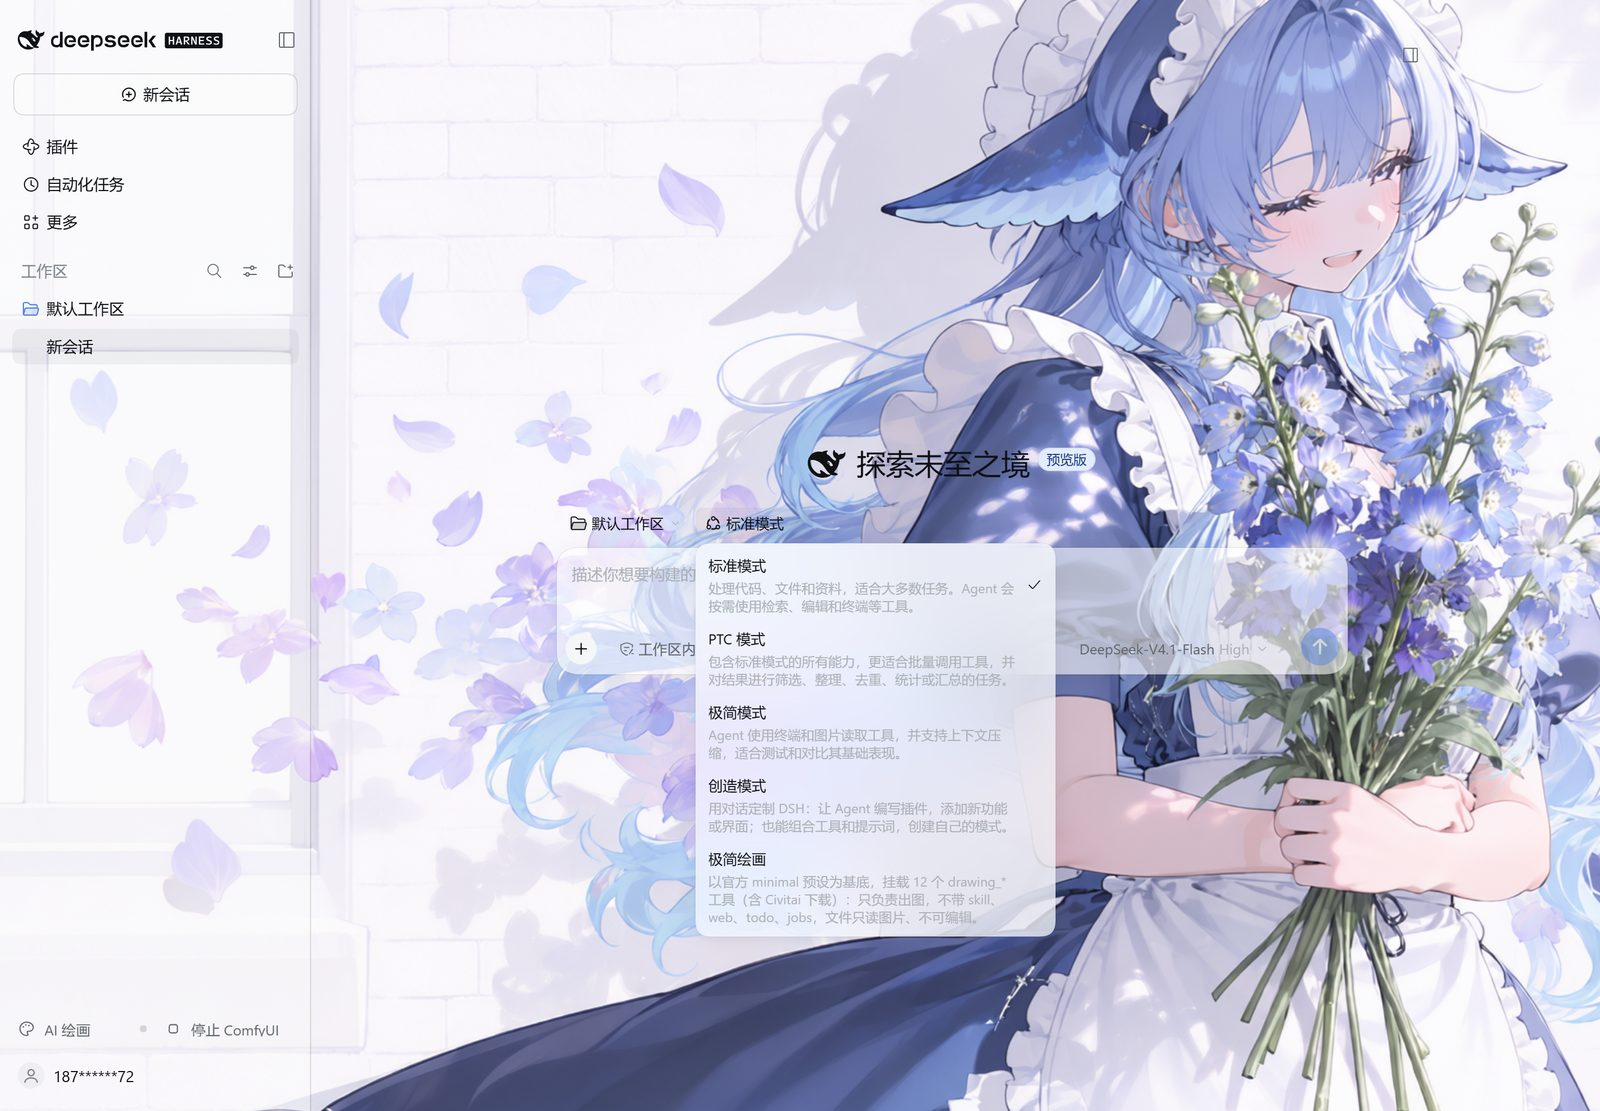
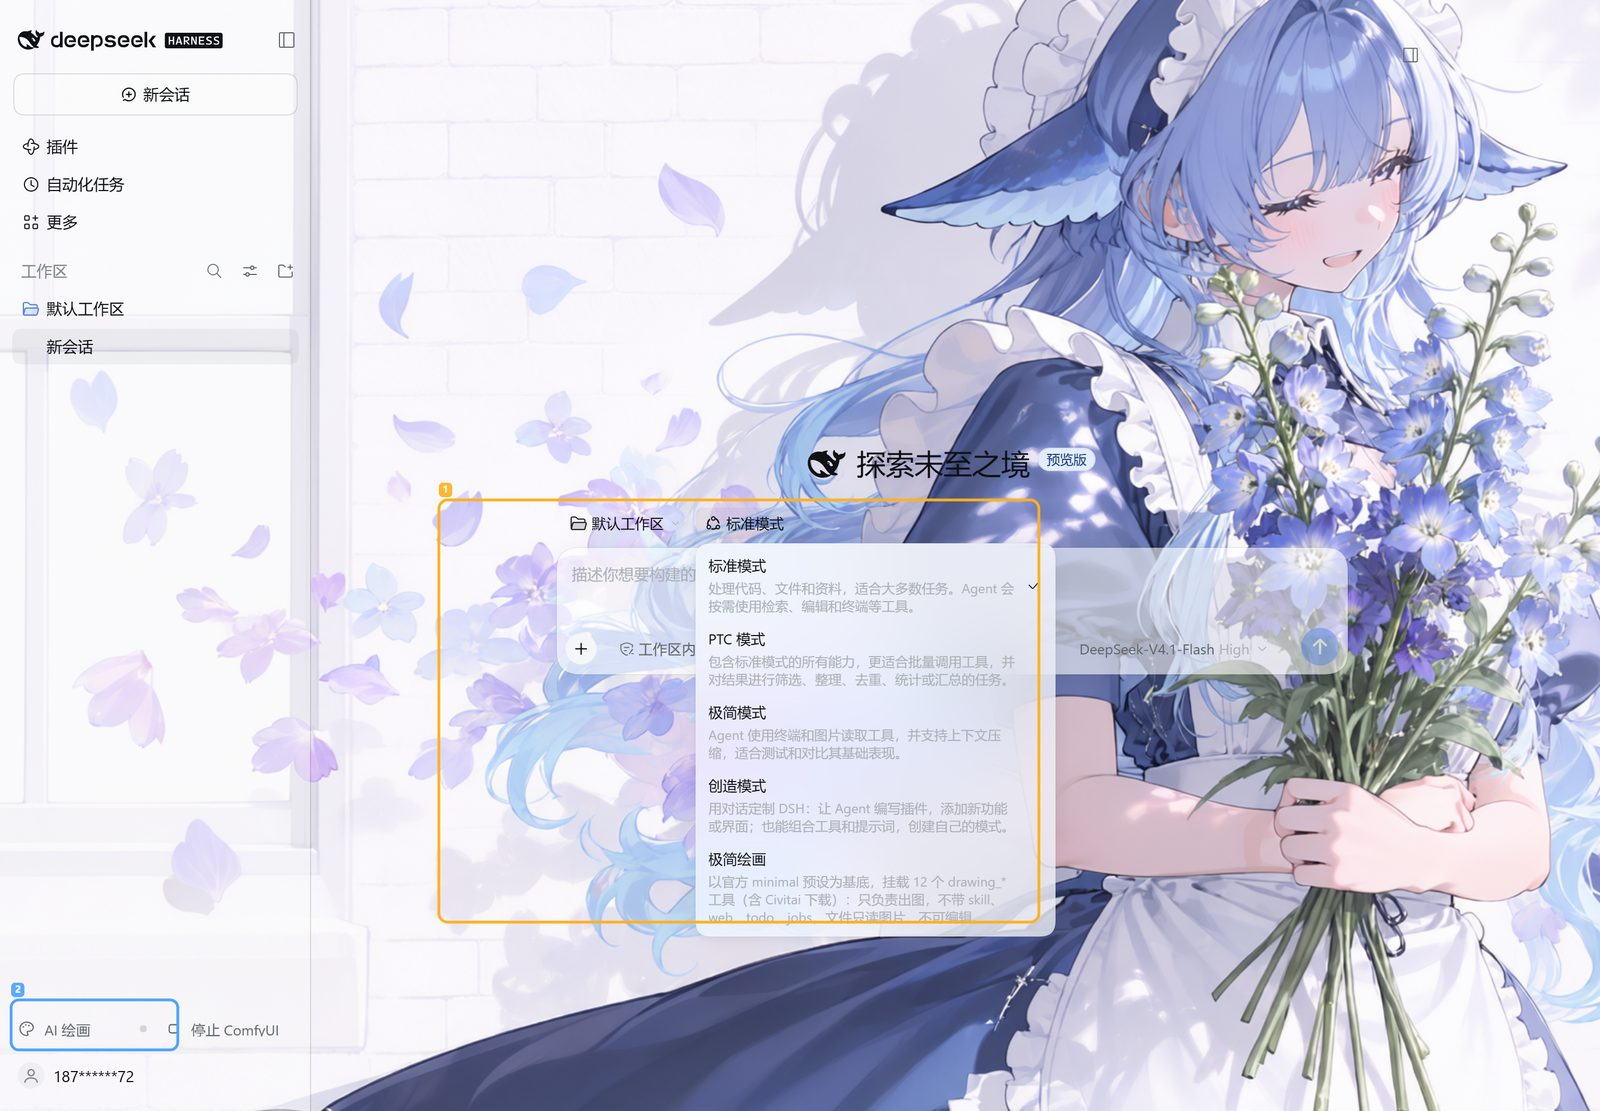
docs: hero image, why-this-plugin comparison, every canvas case and annotated screenshots

Changed region(s): [[0.2812, 0.7957, 0.6562, 0.8569], [0.25, 0.4284, 0.6562, 0.459], [0.0, 0.8875, 0.125, 0.9487]]

diff --git a/README.md b/README.md
@@ -4,9 +4,23 @@ English | [简体中文](README.zh-CN.md)
 
 > Local AI image generation for DeepSeek Harness through a ComfyUI server.
 
-DeepSeek Harness (DSH) has no built-in image generation. This bundle adds twelve `drawing_*` tools that drive a local ComfyUI instance over its HTTP API, and a sidebar entry that opens the ComfyUI canvas in DSH's right sidebar. The tools can report server status, list the models that are actually installed, read a per-family prompt guide, generate batch or img2img images, inspect the queue and history, run saved workflows, and recover the recipe from a ComfyUI PNG. It is displayed as **Drawing tools** in English and **绘画工具** in Chinese.
+DeepSeek Harness (DSH) has no built-in image generation. This bundle adds twelve `drawing_*` tools that drive a local ComfyUI instance over its HTTP API, and a sidebar entry that opens the ComfyUI canvas in the right sidebar (Desktop) or in a new browser tab (web). The tools can report server status, list the models that are actually installed, read a per-family prompt guide, generate batch or img2img images, inspect the queue and history, run saved workflows, and recover the recipe from a ComfyUI PNG. It is displayed as **Drawing tools** in English and **绘画工具** in Chinese.
 
 Installing this single bundle gives you all three pieces: the twelve tools, the sidebar entry, and the **Minimal drawing (极简绘画)** agent preset (preset id `drawing-minimal`), which shows up in the new-session preset list. You do not need a second package for the preset.
+
+![dsh-drawing-tools](docs/preview/hero.jpg)
+
+## Why this plugin
+
+Most ComfyUI bridges give the model one `generate` call and leave everything else to you. This bundle is built for a machine it has never seen, and for a picture you actually want to finish.
+
+| | dsh-drawing-tools | a typical ComfyUI bridge |
+| --- | --- | --- |
+| Model knowledge | five family guides with real sizes, steps and CFG, captured trigger words and per-family defaults | the model guesses |
+| Missing files | reads the PNG recipe, searches Civitai / Hugging Face (with mirrors), installs normalized names, verifies the hash | generation just fails |
+| Reproducibility | every run's UI workflow is written into ComfyUI and embedded in the PNG | a one-off graph |
+| Portability | no preset paths; adopts the paths ComfyUI reports; detects the GPU and the launch command | hardcoded paths |
+| Recovery | reads an old ComfyUI PNG and rebuilds the graph | start from scratch |
 
 ## Quick start / 快速开始
 
@@ -34,13 +48,33 @@ Installing this single bundle gives you all three pieces: the twelve tools, the 
 3. **重启 DSH**（bundle 在启动时加载），新建会话选 **极简绘画 / Minimal drawing**。
 4. 直接描述画面。先跑 `drawing_status`；ComfyUI 装了但没配自动启动时，用 `drawing_setup({ action: 'detect' })` / `apply` 修好。
 
-![The 极简绘画 preset in the new-session menu](docs/preview/preset.jpg)
-
-![A 512x512 image generated by the agent](docs/preview/example.jpg)
-
 The built-in family guides are Chinese because the agent reads them; an English index of what each one covers is in [guides/README.en.md](guides/README.en.md).
 
 **For agents.** Read [AGENTS.md](AGENTS.md) for the machine-actionable contract: tool list, config keys, credential names, path rules and verification steps.
+
+## Opening the canvas — every case
+
+The sidebar entry is the same in every deployment, but how the canvas appears depends on where DSH runs:
+
+| Situation | What happens |
+| --- | --- |
+| Desktop app | opens a native browser tab in DSH's right sidebar |
+| DSH opened in a plain browser | opens the ComfyUI origin in a new browser tab (there is no right sidebar to fill) |
+| Right sidebar exists but no session surface is mounted | retries the sidebar, then falls back to a new tab instead of failing |
+| Browser blocks the new tab | a toast explains that popups were blocked; allow them and retry |
+| ComfyUI is not running | the entry starts it (from `launch` config or detection), then opens the canvas |
+| ComfyUI is not on 8188, or is remote | set `config.origin` (or `COMFY_ORIGIN`); the canvas and every tool follow it |
+| ComfyUI is not installed | `drawing_status` explains what to install and which build fits the GPU |
+
+## Screenshots
+
+![The preset menu and the sidebar entry](docs/preview/preset.jpg)
+
+**1** The **极简绘画 / Minimal drawing** preset: twelve `drawing_` tools, no editor or web tools, and a persona that only draws on an explicit request. **2** The **AI 绘画** entry above Settings: it shows the ComfyUI state, can stop the server, and opens the canvas; a toast reports the mode.
+
+![The canvas inside the desktop right sidebar](docs/preview/canvas.jpg)
+
+**3** The canvas is a real ComfyUI page inside DSH. The workflow is saved as `dsh-drawing/<date>_<family>` and every node is the one the agent submitted, so the same picture can be reopened and re-run.
 
 ## Features
 

diff --git a/README.zh-CN.md b/README.zh-CN.md
@@ -8,6 +8,20 @@ DeepSeek Harness（DSH）本身没有出图能力。这个 bundle 提供 12 个 
 
 只装这一个 bundle 就能同时得到三样东西：12 个工具、侧边栏入口，以及 **极简绘画** agent 预设（预设 id `drawing-minimal`，会出现在新建会话的预设列表里）。预设不需要再单独装第二个包。
 
+![dsh-drawing-tools](docs/preview/hero.jpg)
+
+## 为什么用它
+
+大多数 ComfyUI 桥接只给模型一个 `generate` 调用，剩下的都留给你。这个 bundle 面向一台它没见过的机器，也面向一张真的想画完的图。
+
+| | dsh-drawing-tools | 普通 ComfyUI 桥接 |
+| --- | --- | --- |
+| 懂模型 | 五个模型族的真实尺寸/步数/CFG、采集到的触发词、各族默认参数 | 全靠模型猜 |
+| 缺文件 | 读 PNG 配方，去 Civitai / Hugging Face（含镜像）搜索，规范化安装，校验哈希 | 直接失败 |
+| 可复现 | 每次运行的 UI 工作流写进 ComfyUI 并嵌进 PNG | 一次性图 |
+| 可迁移 | 不预设路径；采用 ComfyUI 自报路径；探测显卡与启动命令 | 写死路径 |
+| 可救回 | 读旧 ComfyUI PNG，重建整张图 | 从头再来 |
+
 ## 快速开始 / Quick start
 
 **这是什么。** 一个把本机 ComfyUI 变成绘画 agent 的 DeepSeek Harness 插件包。装一次同时得到 12 个 `drawing_` 工具、一个打开 ComfyUI 画布的侧边栏入口，以及 **极简绘画** agent 预设。它只通过 HTTP 访问你自己的 ComfyUI，不含任何模型、不上传任何数据。
@@ -24,13 +38,33 @@ DeepSeek Harness（DSH）本身没有出图能力。这个 bundle 提供 12 个 
 3. **重启 DSH**，新建会话选 **极简绘画**。
 4. 先 `drawing_status`；ComfyUI 未配置自动启动时用 `drawing_setup({ action: 'detect' })` / `apply`。
 
-![The 极简绘画 preset in the new-session menu](docs/preview/preset.jpg)
-
-![A 512x512 image generated by the agent](docs/preview/example.jpg)
-
 内置族指南为中文（供 agent 读取）；英文目录见 [guides/README.en.md](guides/README.en.md)。
 
 **给 agent。** 工具清单、配置键、凭据名、路径规则与验收步骤见 [AGENTS.md](AGENTS.md)。
+
+## 画布怎么打开（所有情况）
+
+侧边栏入口在各处都一样，但画布出现在哪里取决于 DSH 跑在哪里：
+
+| 情况 | 行为 |
+| --- | --- |
+| 桌面客户端 | 在右栏打开一个原生浏览器标签页 |
+| 用普通浏览器打开 DSH | 在新浏览器标签页打开 ComfyUI 地址（没有右栏可占） |
+| 有右栏但会话表面没挂载 | 先重试右栏，失败后降级为新标签页，不再报错 |
+| 浏览器拦截新标签页 | 弹提示说明被拦截；允许弹窗后重试 |
+| ComfyUI 没启动 | 入口会按 `launch` 配置或探测结果把它拉起来，再开画布 |
+| ComfyUI 不在 8188 或在外网 | 改 `config.origin`（或 `COMFY_ORIGIN`），画布和所有工具都跟随 |
+| 根本没装 ComfyUI | `drawing_status` 会说明装什么、哪种构建适合当前显卡 |
+
+## 截图
+
+![预设菜单与侧边栏入口](docs/preview/preset.jpg)
+
+**1** **极简绘画** 预设：12 个 `drawing_` 工具，不带编辑器/网页工具，人格只在明确要求时出图。**2** 设置上方的 **AI 绘画** 入口：显示 ComfyUI 状态、可停止服务、可打开画布；底部 toast 会说明打开方式。
+
+![桌面客户端右栏里的画布](docs/preview/canvas.jpg)
+
+**3** 画布就是 DSH 右栏里的真实 ComfyUI 页面。工作流保存为 `dsh-drawing/<日期>_<族>`，每个节点都是 agent 提交的那一次，所以同一张图可以重新打开、重新跑。
 
 ## 功能
 
